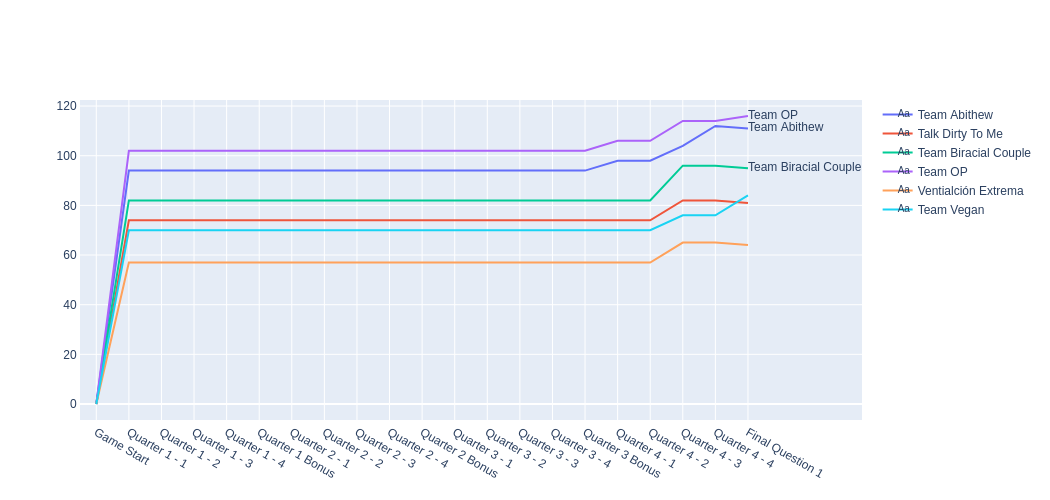
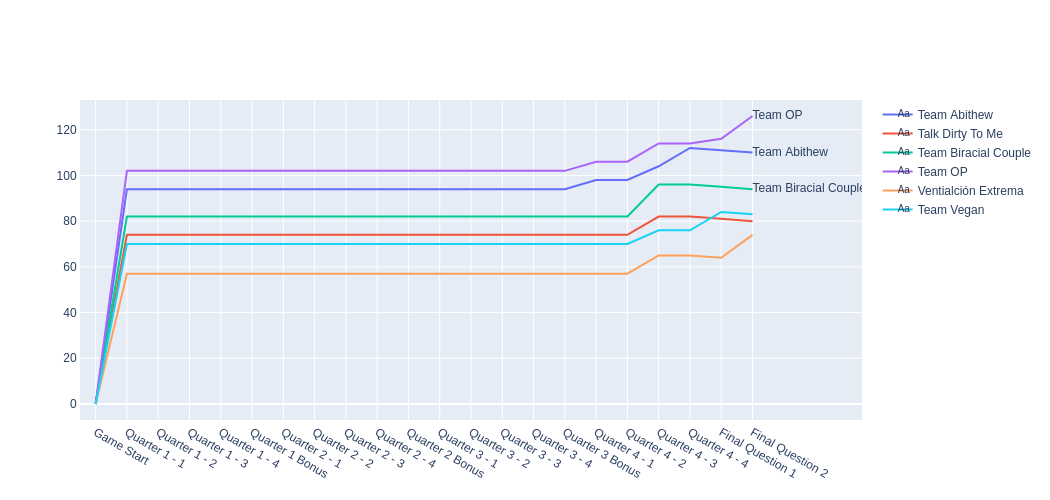
Live Edits

diff --git a/Trivia/Live_Tracker.html b/Trivia/Live_Tracker.html
@@ -13,7 +13,7 @@
         document.getElementById("title").innerHTML = "Trivia Live Scoring - " + m + "/" + d + "/" + y;
         </script>
         <div><img src = "img/fig1.png"></div>
-        <div>2 people (33%) got the previous question correct. The average wager was 3.00. The average points awarded was 1.00</div>
+        <div>2 people (33%) got the previous question correct. The average wager was 4.67. The average points awarded was 2.67</div>
         
         </body>
         </html>
